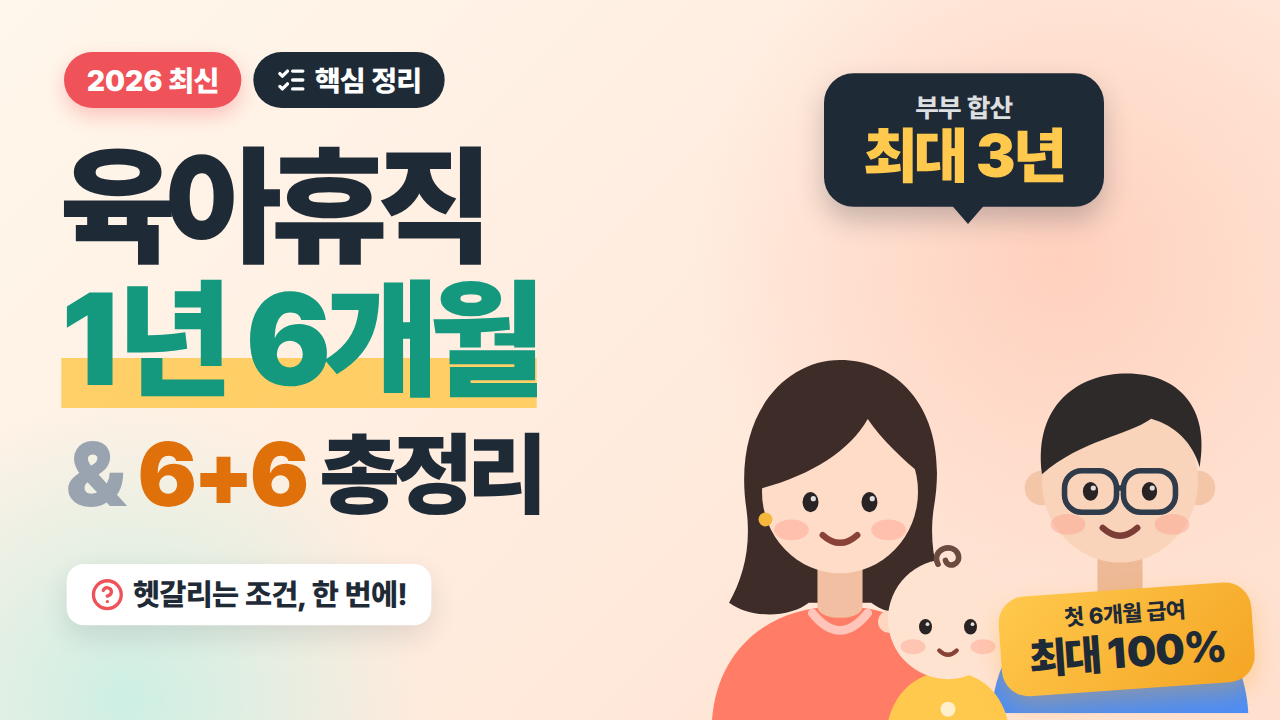
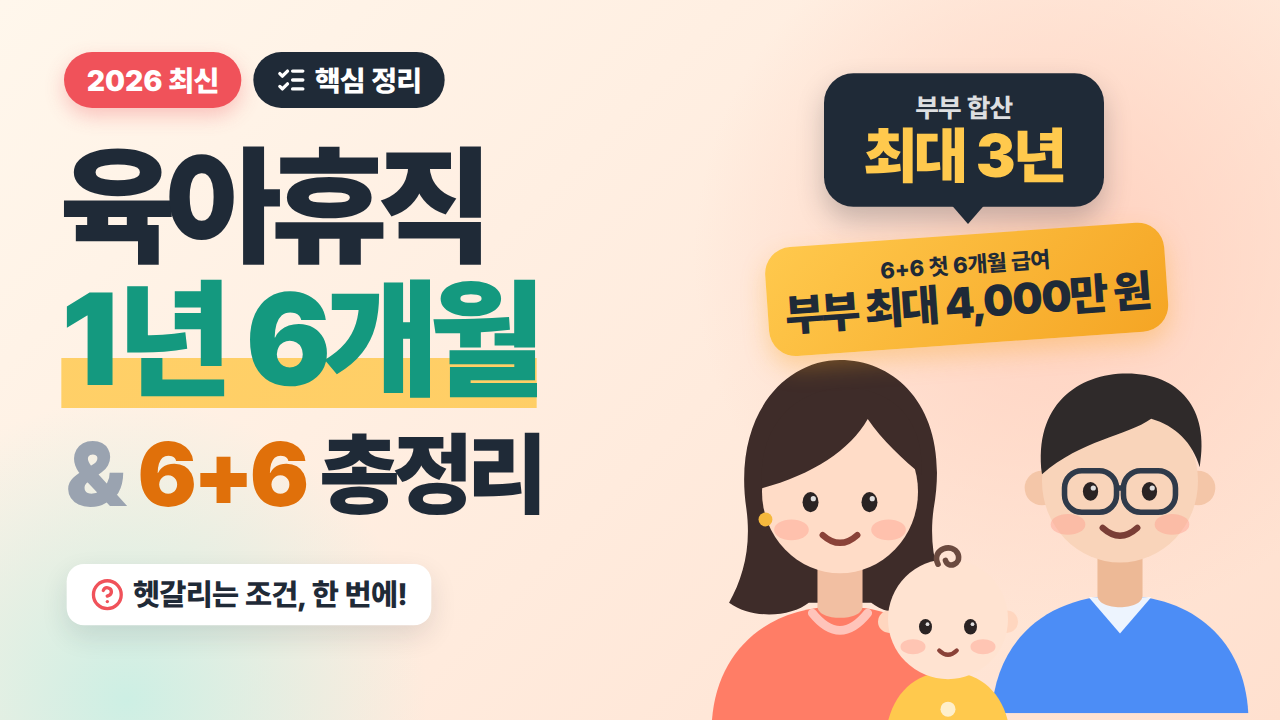
Update subtitles, thumbnail and YouTube copy for v5
Claude-Session: https://claude.ai/code/session_01PJX1Bzg3RuAwNvd5DHxUEv

Changed region(s): [[0.5938, 0.3056, 0.9375, 0.5194], [0.7812, 0.7944, 1.0, 1.0]]

diff --git a/episodes/01-parental-leave/youtube.md b/episodes/01-parental-leave/youtube.md
@@ -2,17 +2,18 @@
 
 ## 제목 후보 (추천: 1번)
 
-1. 육아휴직 6개월 연장 조건 & 6+6 부모육아휴직제 한 번에 정리 (2026 최신)
+1. 육아휴직 6개월 연장 조건 & 6+6 부모육아휴직제, 부부 최대 4,000만 원까지 한 번에 정리 (2026 최신)
 2. 육아휴직 6개월 더 쓰는 조건은? 6+6 급여 최대 2천만 원까지 한 번에 정리
 3. "육아휴직 1년이 끝?" 부부 최대 3년 + 6+6 급여 총정리 | 예비 부모 필수
 
 ## 설명란 (그대로 복사해서 쓰세요)
 
 ```
-오늘은 육아휴직 제도 두 가지를 소개합니다.
+부부가 함께 쓰면 육아휴직은 최대 3년, 첫 6개월 급여는 부부 합산 최대 4,000만 원입니다.
 ① 육아휴직 6개월 연장 제도: 조건을 채우면 휴직 기간이 1년 6개월(부부 최대 3년)로 늘어납니다.
-② 6+6 부모육아휴직제: 부모가 모두 휴직하면 첫 6개월 급여를 최대 월 450만 원까지 받습니다.
-③ 두 제도에서 자주 헷갈리는 포인트 4가지까지 차례대로 정리했습니다.
+② 6+6 부모육아휴직제: 부모가 모두 휴직하면 첫 6개월 급여를 최대 월 450만 원까지 받습니다. 월급별 비교표도 담았습니다.
+③ 두 제도에서 자주 헷갈리는 포인트 4가지
+④ 신청 방법 3단계 (회사 신청 → 회사 확인서 제출 → 고용24 급여 신청)
 
 ⏱ 챕터
 <!-- chapters:start -->
@@ -34,7 +35,13 @@
   - 각자 첫 6개월 급여를 통상임금 100%로 (월 상한 250·250·300·350·400·450만 원)
   - 1인 최대 2,000만 원, 부부 최대 4,000만 원
   - 특례 기간은 나중에 휴직한 사람의 사용 개월 수만큼 (최대 6개월), 먼저 쓴 사람은 차액 소급
-③ 휴직은 회사에 30일 전까지 신청, 급여는 고용24에서 (휴직이 끝난 뒤 12개월 이내)
+③ 신청: 휴직 시작 30일 전까지 회사에 신청 → 회사가 고용센터에 육아휴직 확인서 제출 → 휴직 1개월 뒤부터 고용24에서 급여 신청 (휴직 종료 후 12개월 이내)
+
+💰 월급별 6+6 효과 (첫 6개월 · 한 사람 · 만 원)
+  - 통상임금 월 200만 원: 일반 1,200 / 6+6 1,200 (차이 없음)
+  - 월 300만 원: 일반 1,350 / 6+6 1,700 (+350)
+  - 월 400만 원: 일반 1,350 / 6+6 1,950 (+600)
+  - 월 500만 원 이상: 일반 1,350 / 6+6 2,000 (+650)
 
 ❓ 헷갈리는 포인트
 1. 배우자가 자영업자·전업주부라면? → '부모 각각 3개월' 조건으로는 연장할 수 없습니다 (공무원·교원 배우자의 육아휴직은 인정)
@@ -52,6 +59,17 @@
 
 #육아휴직 #6플러스6 #부모육아휴직제 #육아휴직급여 #예비부모 #출산 #육아정보
 ```
+
+## 쇼츠 4편 (episodes/01-parental-leave/output/shorts/)
+
+긴 영상의 '헷갈리는 포인트'를 하나씩 잘라 만든 세로 영상입니다. 설명란에 긴 영상 링크를 넣어 주세요.
+
+| 파일 | 제목 (예시) |
+|---|---|
+| `short1-self-employed.mp4` | 배우자가 자영업자·전업주부라면 육아휴직 1년 6개월 될까? #육아휴직 #Shorts |
+| `short2-apply-early.mp4` | 배우자 3개월 채우기 전에 미리 신청하면? 육아휴직 연장의 함정 #육아휴직 #Shorts |
+| `short3-450.mp4` | 6+6이면 누구나 월 450만 원? 아닙니다 #6플러스6 #육아휴직급여 #Shorts |
+| `short4-different-months.mp4` | 엄마 6개월·아빠 3개월이면 6+6 특례는? #부모육아휴직제 #Shorts |
 
 ## 태그
 
